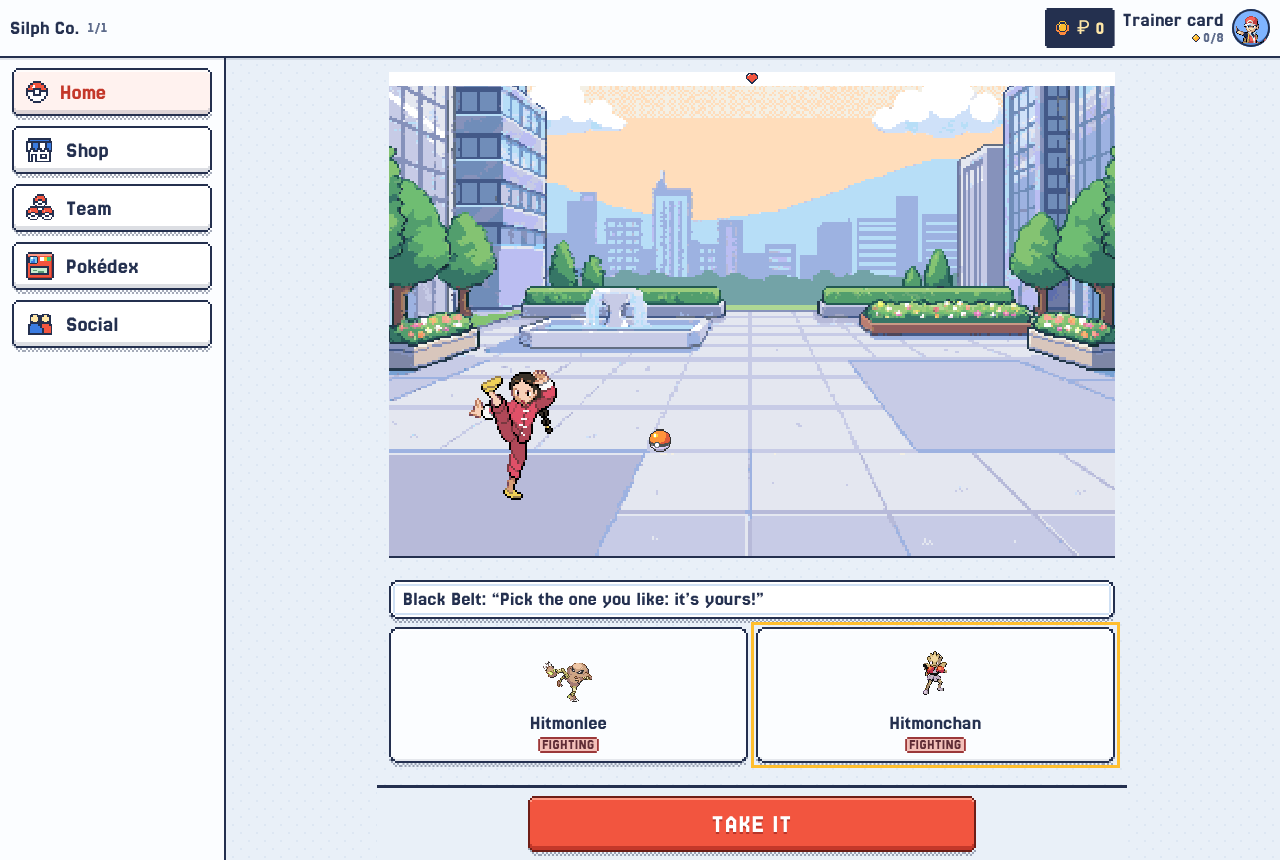
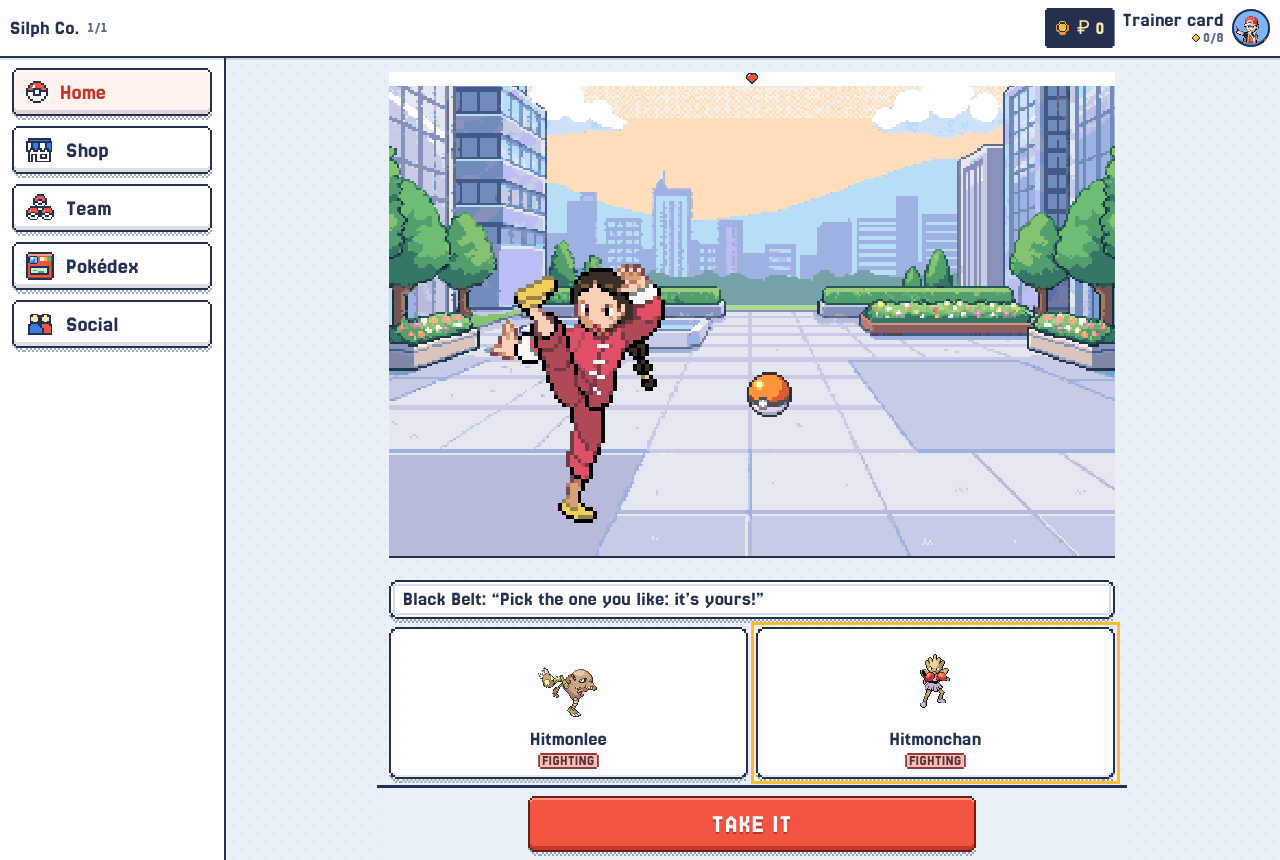
Gifts: the giver, what they hold and the Pokémon sized to the stage, not fixed pixels
The giver stands about half the stage's height, the Poké Ball or Egg a ninth of its
width, the Pokémon springing out a third; the pick-one cards' sprites a little bigger.

Claude-Session: https://claude.ai/code/session_01XHyEWyTAazUmcz1RUMfqrq

Changed region(s): [[0.2812, 0.7558, 0.875, 0.9372], [0.3438, 0.3023, 0.5312, 0.6047], [0.5625, 0.4233, 0.625, 0.4837]]

diff --git a/src/screens/area/GiftView.tsx b/src/screens/area/GiftView.tsx
@@ -4,7 +4,7 @@
 // the ball springs open in the middle of the stage and the Pokémon stands there (an Egg is handed over and wobbles), and
 // the panel says where it went. The engine decides everything (engine/moments.ts); this only shows it.
 import { motion } from 'framer-motion'
-import { useMemo, useState } from 'react'
+import { useEffect, useMemo, useRef, useState } from 'react'
 import { giftChoices, type GameData, type GiftMoment } from '@/engine'
 import { AutoButton } from '@/components/AutoButton'
 import { EggSprite } from '@/components/EggSprite'
@@ -59,28 +59,47 @@ export function GiftStage({
   const ball = useGame((s) => s.data.items['poke-ball'])
   const { level, calm } = useMotion()
   const still = level === 'off' || calm
+  // Everyone on it is sized to the stage (the user, 2026-11-01: the giver, the ball and the Pokémon read too small on a
+  // wide one): the giver about half its height, what they hold a ninth of its width, the Pokémon a third.
+  const box = useRef<HTMLDivElement>(null)
+  const [w, setW] = useState(360)
+  useEffect(() => {
+    const el = box.current
+    if (!el) return
+    setW(el.clientWidth || 360)
+    if (typeof ResizeObserver === 'undefined') return
+    const ro = new ResizeObserver(() => setW(el.clientWidth || 360))
+    ro.observe(el)
+    return () => ro.disconnect()
+  }, [])
+  const giver = Math.round(w * 0.44)
+  const held = Math.round(w * 0.11)
   return (
-    <div className="relative isolate aspect-[3/2] w-full select-none overflow-hidden shadow-ledge">
+    <div ref={box} className="relative isolate aspect-[3/2] w-full select-none overflow-hidden shadow-ledge" data-gift-stage>
       <StageBackground art={art} zones={false} />
       <RunRoundGauge strip className="absolute inset-x-0 top-0 z-30" />
       <motion.div
-        className="absolute bottom-[10%] left-[6%] z-10 w-[34%]"
+        className="absolute bottom-[6%] left-[4%] z-10"
+        style={{ width: giver, height: giver }}
         initial={still ? false : { x: '-120%' }}
         animate={{ x: '0%' }}
         transition={{ duration: still ? 0 : 0.55, ease: 'easeOut' }}
       >
-        <TrainerSprite src={g.sprite} size={160} className="h-auto w-full" />
+        <TrainerSprite src={g.sprite} size={giver} />
         {!received && (
           <motion.span
-            className="absolute -right-[18%] top-[48%] block w-[34%]"
+            className="absolute top-[46%] block"
+            style={{ right: -held * 0.9 }}
             animate={still ? undefined : { y: ['0%', '-8%', '0%'] }}
             transition={{ duration: 1.2, repeat: Infinity }}
           >
-            {g.egg ? <EggSprite size={44} /> : <ItemSprite item={ball} size={40} />}
+            {g.egg ? <EggSprite size={Math.round(held * 1.1)} /> : <ItemSprite item={ball} size={held} />}
           </motion.span>
         )}
       </motion.div>
-      {received && received.placed !== 'egg' && <SprungThing itemKey="poke-ball" dex={dex} shiny={received.shiny} />}
+      {received && received.placed !== 'egg' && (
+        <SprungThing itemKey="poke-ball" dex={dex} shiny={received.shiny} size={Math.round(w * 0.22)} />
+      )}
       {received?.placed === 'egg' && (
         <motion.div
           className="absolute left-1/2 top-[72%] z-20 -translate-x-1/2 -translate-y-full"
@@ -88,7 +107,7 @@ export function GiftStage({
           animate={still ? { opacity: 1 } : { x: '-50%', y: '-100%', rotate: [0, -8, 8, 0], opacity: 1 }}
           transition={{ duration: still ? 0 : 0.8 }}
         >
-          <EggSprite size={72} shake={!still} />
+          <EggSprite size={Math.round(w * 0.16)} shake={!still} />
         </motion.div>
       )}
     </div>
@@ -108,7 +127,7 @@ function Choice({ dex, data, picked, onPick }: { dex: number; data: GameData; pi
         picked && 'outline outline-[3px] outline-offset-2 outline-gold',
       )}
     >
-      <SpriteImg dex={dex} size={72} />
+      <SpriteImg dex={dex} size={88} />
       <span className="truncate text-xl leading-none">{sp?.name ?? `#${dex}`}</span>
       <span className="flex gap-1">
         {sp && <TypeBadge type={sp.type1} size="sm" />}

diff --git a/src/screens/area/FindView.tsx b/src/screens/area/FindView.tsx
@@ -356,12 +356,23 @@ export function FoundThing({ enc, isMoney, rarity }: { enc: Find; isMoney: boole
  * A Pokémon posing as a find springs out (docs/61 §3): the ball on the ground wobbles, the third wobble bursts it in a
  * white flash, and the Pokémon stands where it lay, with a hop. No motion, or a calm screen: the Pokémon is simply there.
  */
-export function SprungThing({ itemKey, dex, shiny }: { itemKey: string; dex: number; shiny?: boolean }) {
+export function SprungThing({
+  itemKey,
+  dex,
+  shiny,
+  size: own,
+}: {
+  itemKey: string
+  dex: number
+  shiny?: boolean
+  /** Its size to the stage's (a gift's, sized to the stage); unset = the find's screen's. */
+  size?: number
+}) {
   const data = useGame((s) => s.data)
   const { level, calm } = useMotion()
   const wide = useMediaQuery('(min-width: 1024px)')
   const still = level === 'off' || calm
-  const size = wide ? 136 : 80
+  const size = own ?? (wide ? 136 : 80)
   const item = data.items[itemKey]
   // The wobbles and the burst take this long; the Pokémon is out from there.
   const burst = level === 'short' ? 0.45 : 0.8
